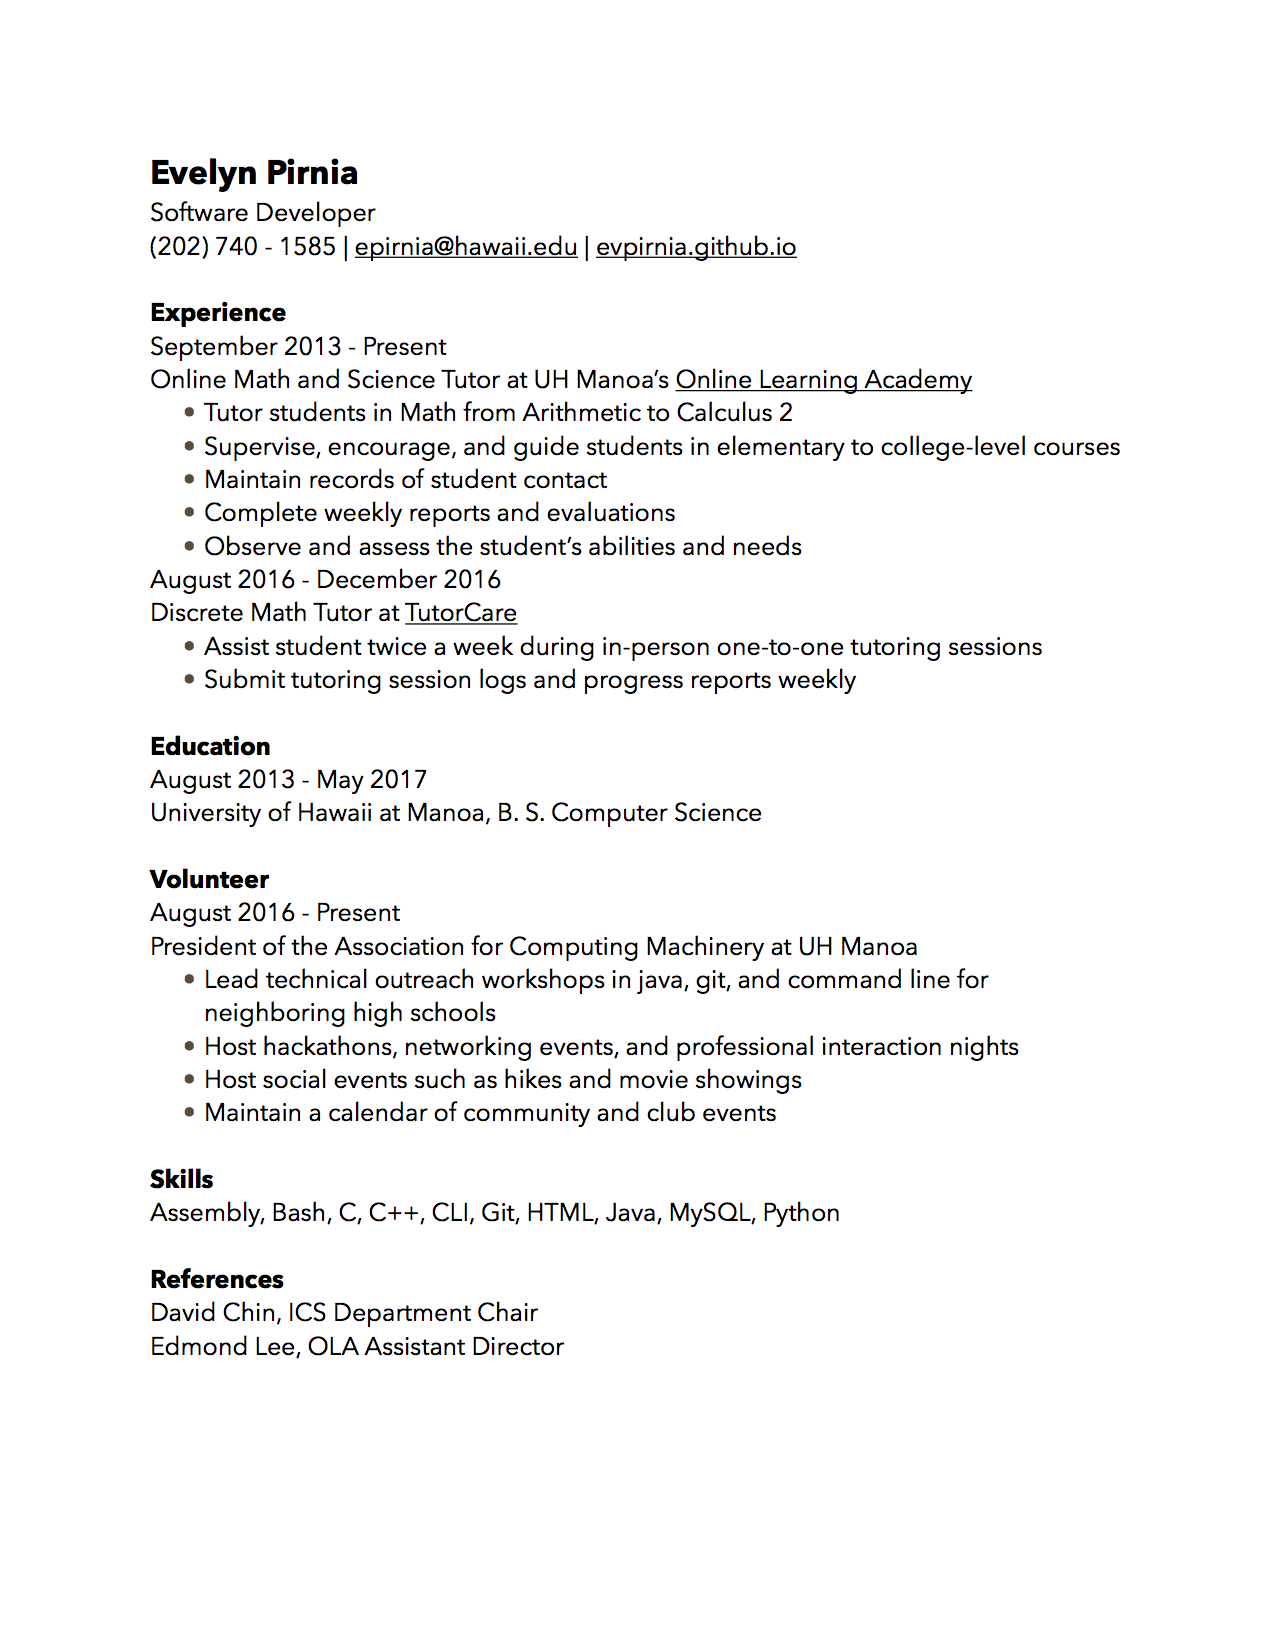
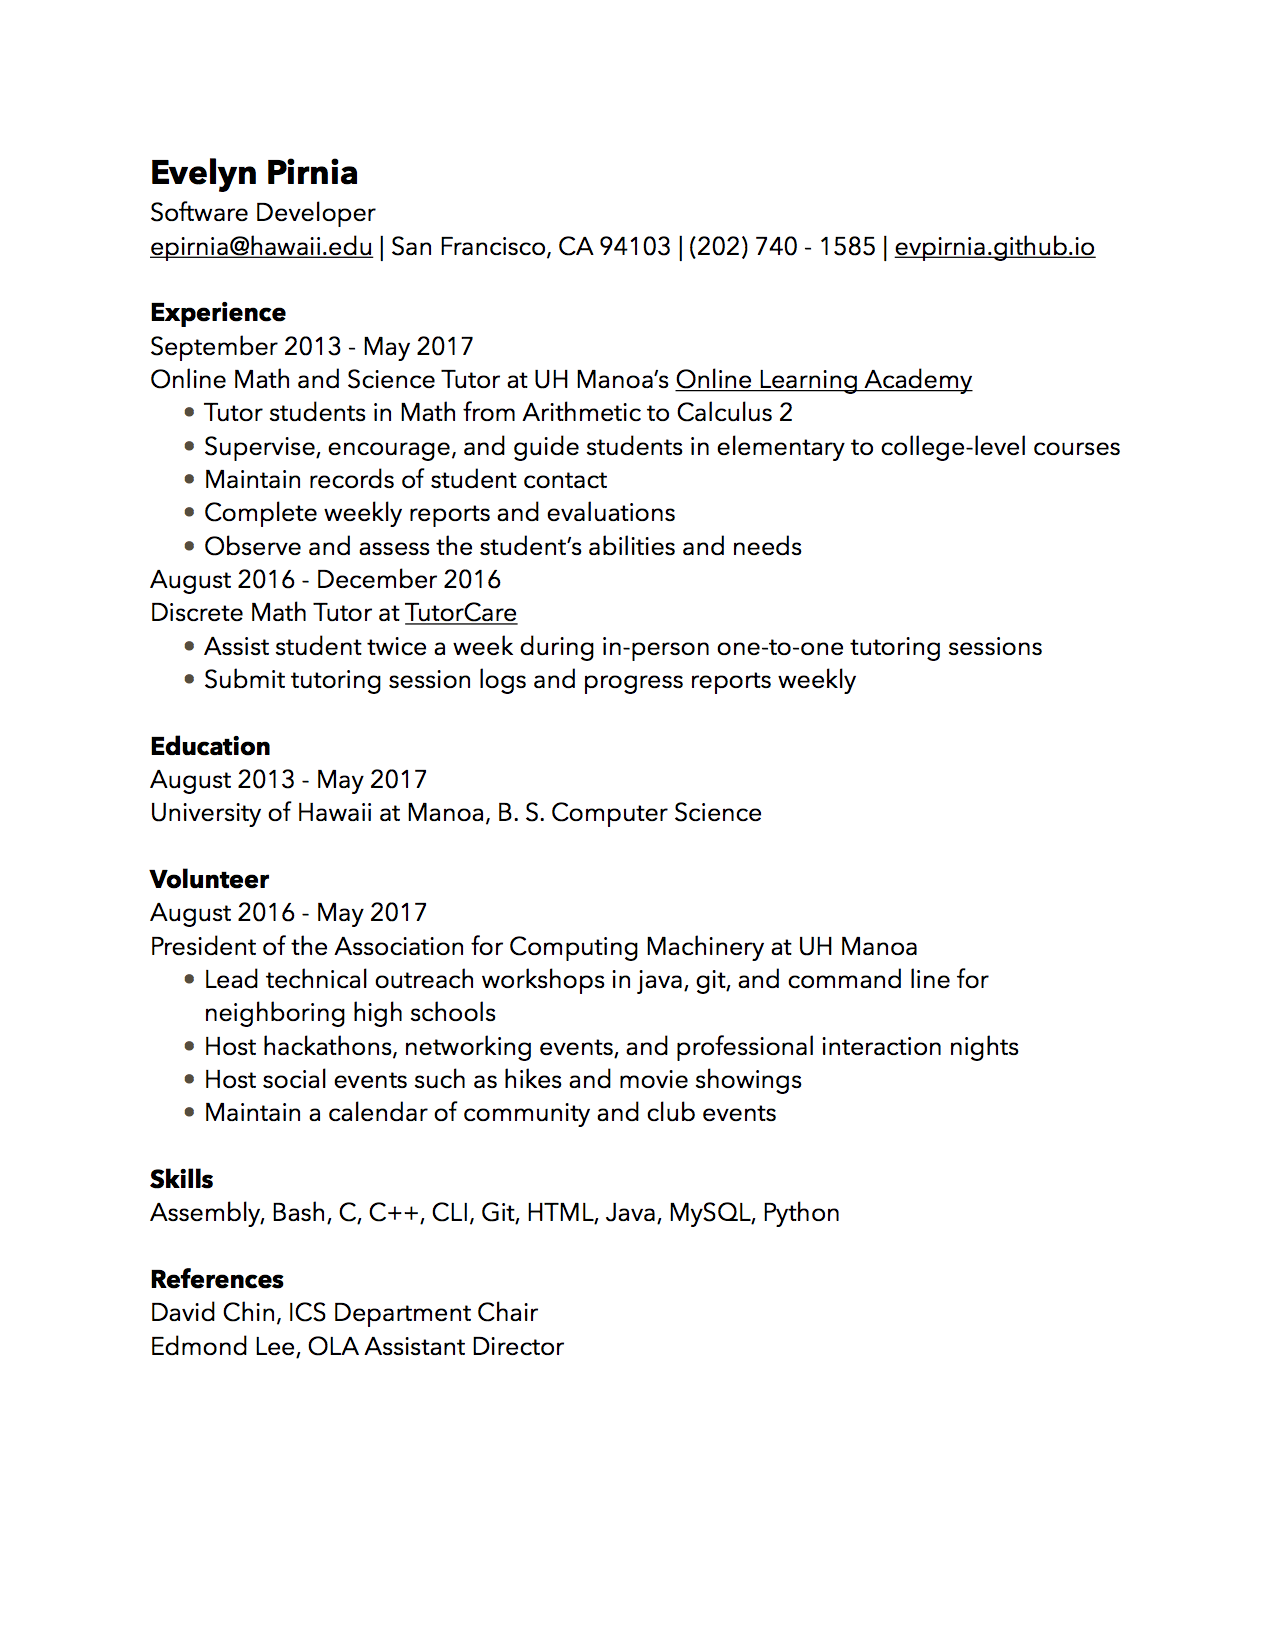
Update Location, SF

Changed region(s): [[0.1224, 0.1236, 0.8565, 0.1545], [0.2753, 0.1855, 0.3671, 0.2164], [0.2447, 0.5255, 0.3365, 0.5564]]

diff --git a/index.html b/index.html
@@ -7,14 +7,10 @@
 		<meta charset="utf-8" />
 		<meta name="viewport" content="width=device-width, initial-scale=1, user-scalable=no" />
 		<link rel="stylesheet" href="/css/main.css" />
-		
 		<noscript><link rel="stylesheet" href="/css/noscript.css" /></noscript>
 	</head>
 	<body>
-
-		
 			<div id="wrapper">
-				
 					<header id="header">
 						<div class="logo">
 							<span class="icon fa-diamond"></span>
@@ -22,7 +18,7 @@
 						<div class="content">
 							<div class="inner">
 								<h1>Evelyn Pirnia</h1>
-								<p>epirnia@hawaii.edu | Honolulu, HI 96822 | (202) 740-1585</p>
+								<p>epirnia@hawaii.edu | San Francisco, CA 94103 | (202) 740-1585</p>
 							</div>
 						</div>
 						<nav>
@@ -33,37 +29,27 @@
 							</ul>
 						</nav>
 					</header>
-
-				
 					<div id="main">
-
-						
 							<article id="about">
 								<h2 class="major">About</h2>
 								<span class="image main"><img src="/img/pic03.jpg" alt="" /></span>
 								<p>
-									Come May of 2017, Evelyn Pirnia will have a Bachelor's Degree in Computer Science from the University
-									of Hawaii at Manoa. In addition to pursuing her degree, she is the President of the Association for
+									Evelyn Pirnia has a Bachelor's Degree in Computer Science from the University of Hawaii at Manoa. In
+									addition to pursuing her degree, she was the President of the Association for
 									Computing Machinery at UH Manoa <a href="http://acmanoa.github.io">(ACManoa)</a> and a Math and Science
 									tutor for her University's <a href="http://acmanoa.github.io">Online Learning Academy</a>.
 								</p>
-
 								<h4>
 									Horace Mann, 1859 Antioch College Address
 								</h4>
 								<blockquote>
 									Be ashamed to die until you have won some victory for humanity.
 								</blockquote>
-
 								<p>
-									She is a
-									passionate software developer. Her areas of interest include database management, data science,
-									and web development. In her free time, she likes to watch audition videos from America's Got Talent and
-									practice photography.
+									She is a passionate software developer. Her areas of interest include database management, data science,
+									and web development. In her free time, she practices photography.
 								</p>
 							</article>
-
-						
 							<article id="projects">
 								<h2 class="major">Projects</h2>
 								<span class="image main"><img src="/img/pic02.jpg" alt="" /></span>
@@ -99,36 +85,23 @@
 									that I have done for this website.
 								</p>
 							</article>
-
-						
 							<article id="resume">
 								<h2 class="major">Resume</h2>
 								<span class="image main"><img src="/img/resume.png" alt="" /></span>
 							</article>
 					</div>
-
-				
 					<footer id="footer">
 						<ul class="icons">
-							
 							<li><a href="https://github.com/evpirnia" class="icon fa-github"><span class="label">github</span></a></li>
-							
 							<li><a href="https://www.linkedin.com/in/evelyn-pirnia-b858a4111/" class="icon fa-linkedin"><span class="label">linkedin</span></a></li>
-							
 						</ul>
 						<p class="copyright">&copy; Evelyn Pirnia 2017. Design: <a href="https://html5up.net">HTML5 UP</a>. Powered by <a href="https://www.gohugo.io/">Hugo.</a></p>
 					</footer>
-
 			</div>
-
-		
 			<div id="bg"></div>
-
-		
 			<script src="/js/jquery.min.js"></script>
 			<script src="/js/skel.min.js"></script>
 			<script src="/js/util.js"></script>
 			<script src="/js/main.js"></script>
-
 	</body>
 </html>
